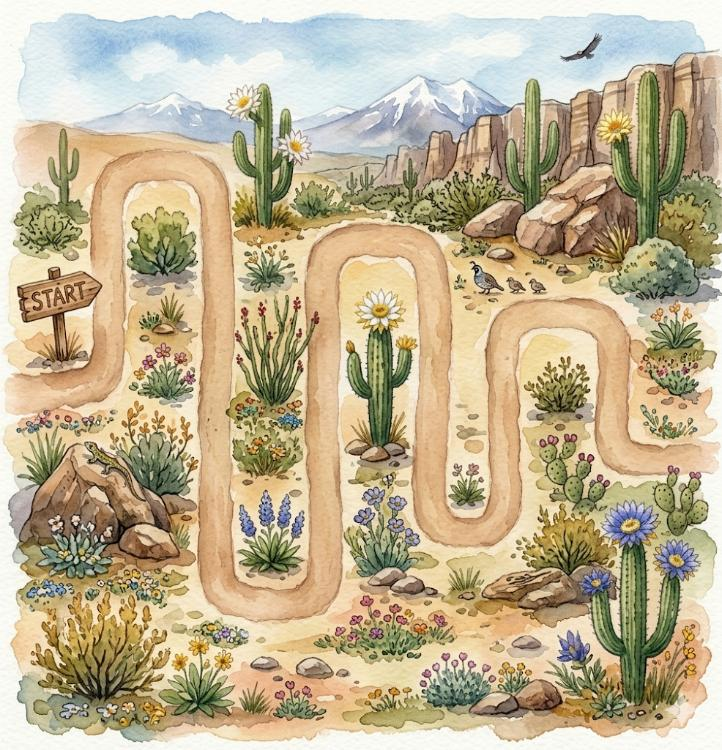
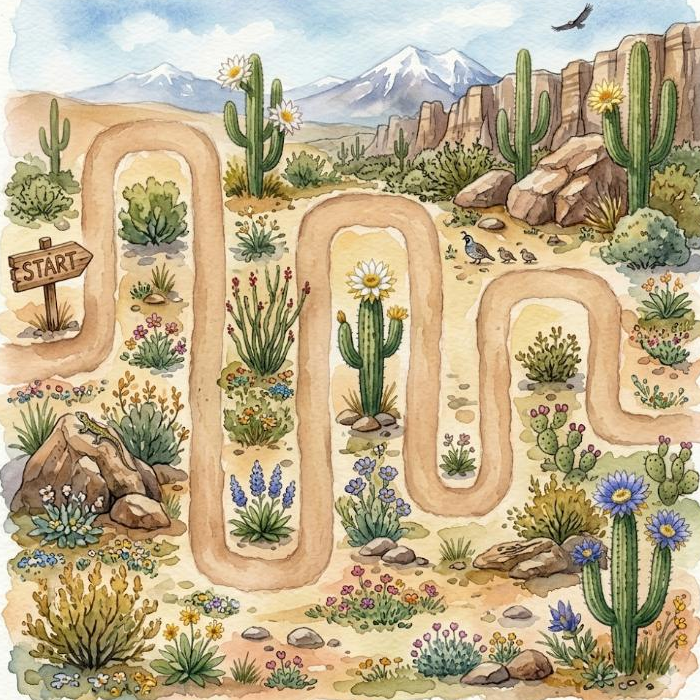
Recadrer les parcours 2 et 3

diff --git a/Tour_2026_modele_partie.py b/Tour_2026_modele_partie.py
@@ -4,30 +4,31 @@ import Tour_2026_modele_tours as fichierTours
 class Parcours():
     def __init__(self, parent, parcourChoisi):
         self.parcourChoisi=parcourChoisi
-        self.noeuds1=[[0,50],
-                     [15,50],
-                     [15,20],
-                     [30,20],
-                     [30,80],
+        print(parcourChoisi)
+        self.noeuds1=[[0,51],
+                     [14,51],
+                     [14,18],
+                     [29,18],
+                     [29,80],
                      [45,80],
-                     [45,30],
-                     [60,30],
+                     [45,29],
+                     [60,29],
                      [60,70],
                      [70,70],
                      [70,40],
-                     [85,40],
-                     [85,60],
+                     [86,40],
+                     [86,60],
                      [100,60]]
-        self.noeuds2=[[0,30],
-                     [40,30],
-                     [50,20],
-                     [90,20],
-                     [90,50],
-                     [20,50],
+        self.noeuds2=[[0,27],
+                     [40,27],
+                     [50,16],
+                     [92,16],
+                     [92,48],
+                     [20,48],
                      [20,90],
                      [50,90],
-                     [60,70],
-                     [100,70]]
+                     [62,68],
+                     [100,68]]
         self.noeuds0 = [[0, 20],
                        [20, 48], 
                        [51, 48],